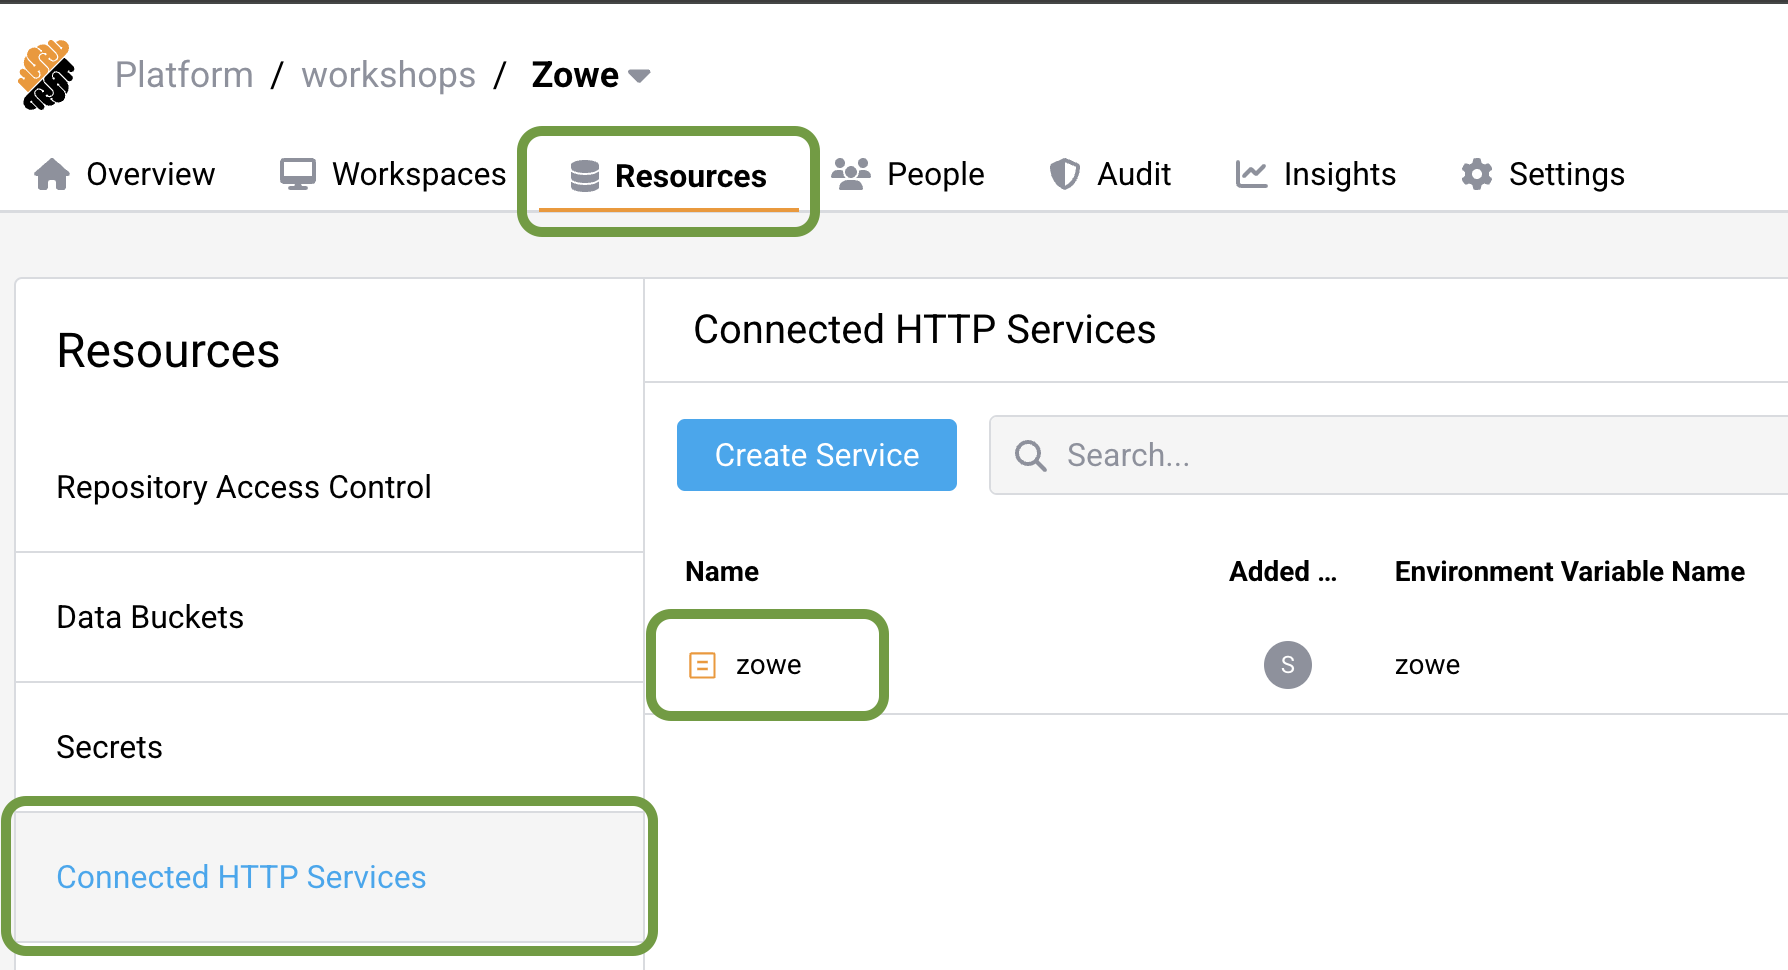
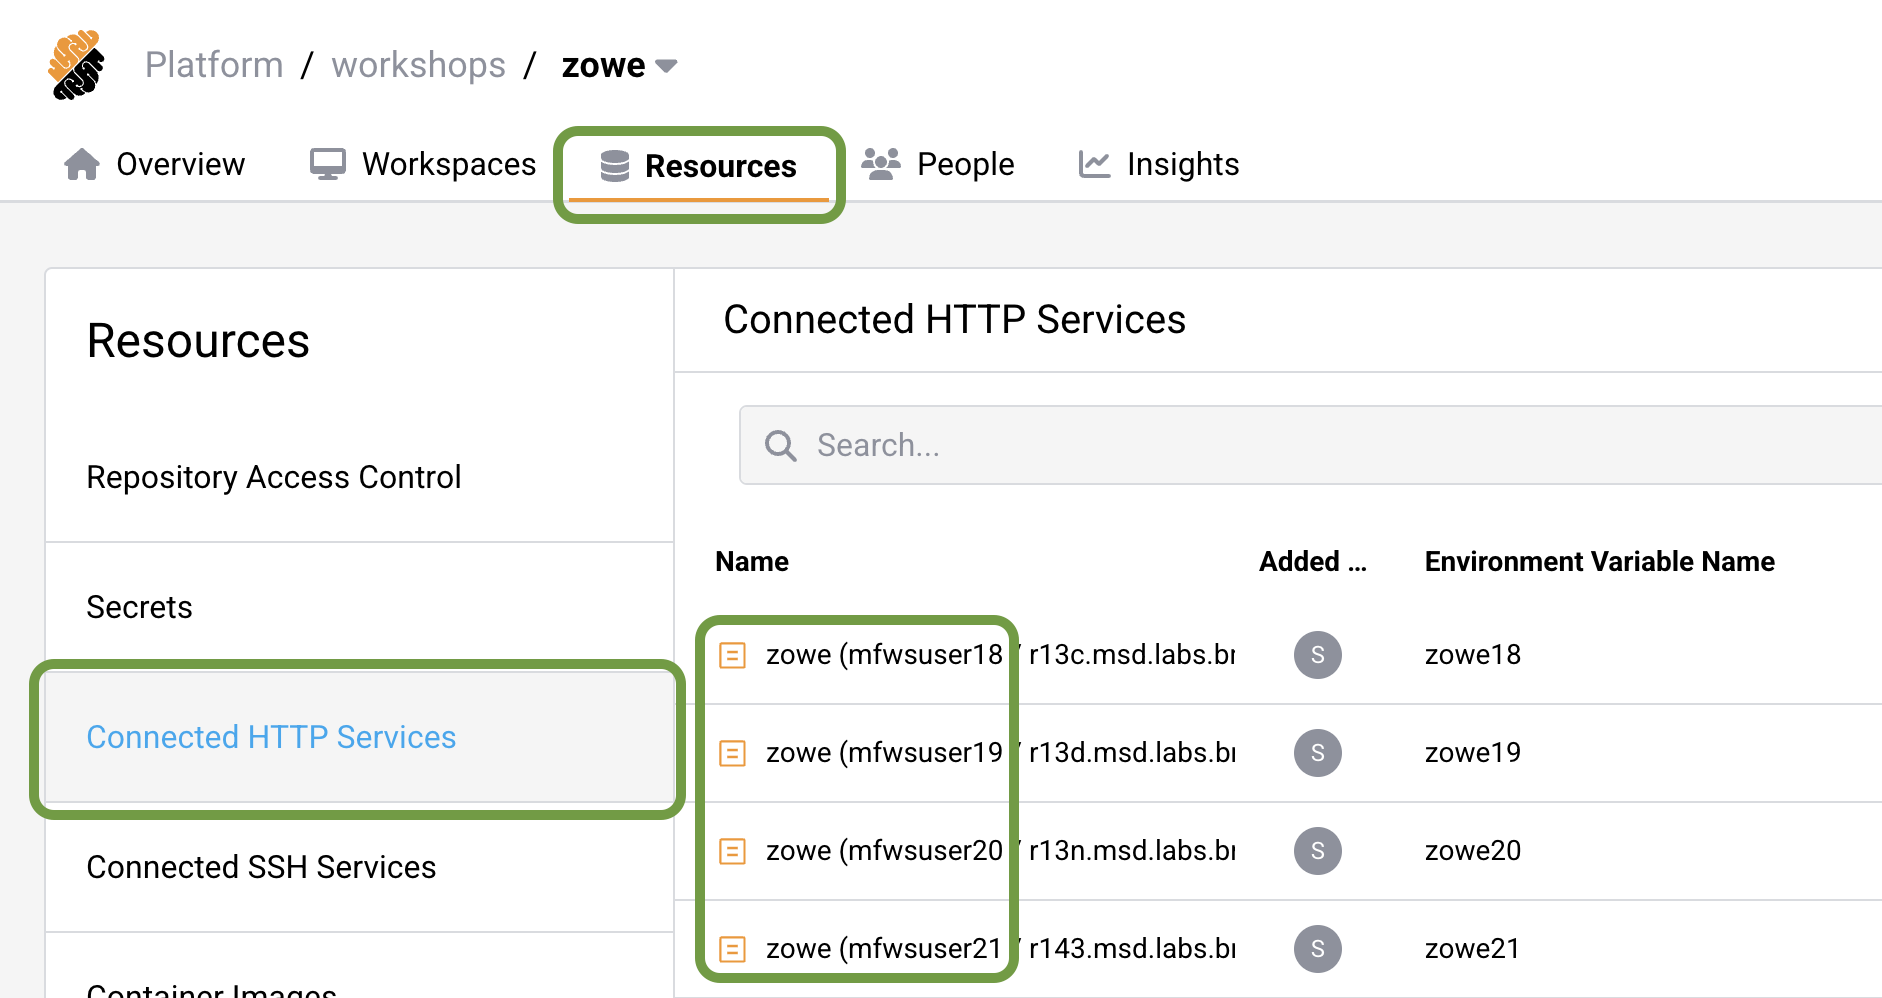
Scenarios feedback adjustments

diff --git a/Transformation.md b/Transformation.md
@@ -2,13 +2,15 @@
 
 ## Getting Started
 
-This session is intended to describe the process of creating an application that utilizes capabilities of different services onboarded to the Zowe API Mediation Layer.</br> 
-Let's start with reviewing what services are onboarded to the Zowe APIML.
+*Now that you have multiple products onboarded to Zowe’s API Mediation Layer, we are ready to build an application that utilizes them in combination. The goal is to create an app that demonstrates the power of different products like SYSVIEW and z/OSMF APIs integrated in one solution that can help you to simplify mainframe management.*
 
 ## Browse the Zowe API Catalog UI
 
-Navigate to the Strong Network platform main page and then go to the **Resourses** -> **Connected HTTP Services** </br>
-Click on **zowe** service to open the Zowe API Catalog UI
+*Let's start with reviewing the Zowe API Catalog to review what services are onboarded to the Zowe APIML.*
+
+1. Navigate to the Strong Network platform main page 
+2. Go to the **Resourses** -> **Connected HTTP Services** 
+3. Click on the service corresponding to your user ID **zowe** **(<user>...** to open the Zowe API Catalog UI
 
 <img style="height: 400px" src="./assets/zowe-ui-access.png">
 </br></br>
@@ -17,29 +19,44 @@ You can browse the list of currently onboarded services
 
 <img style="height: 400px" src="./assets/api-catalog-onboarded.png">
 </br></br>
+</br>
 
-Click on the **SYSVIEW Performance Management** tile to drilldown to the API documentation and browse available endpoints</br>
-Take a closer look on the **/SYSVIEW/Command** which allows us to execute a SYSVIEW function command. 
+*The first step is to be able to execute a SYSVIEW command from within our application. To do this, we’ll use the SYSVIEW Performance Management API, specifically the /SYSVIEW/Command endpoint, which allows us to execute SYSVIEW function commands like starting a job or querying job status.*
+
+1. Click on the **SYSVIEW Performance Management** tile to drilldown to the API documentation and browse available endpoints</br>
+2. Browse the available endpoints, and select **/SYSVIEW/Command** 
 
 <img style="height: 150px" src='./assets/sysview-command.png'>
 </br></br>
 
-Select the endpoint, click **Try it out**, enter **/S ZWEDUMMY** value to the *command* field and click **Execute** button below.</br>
-You should see the Server response code **200** and response content.</br></br> 
-Click on NodeJS tab on snippets panel and copy code content. Now we can use this code in our application.
+3. Click **Try it out**.
+4. Enter **/S ZWEDUMMY** value to the *command* field.
+5. Click on **Execute** button below.</br>
+
+You should see the Server response code **200** and some content.</br></br> 
+
+*Once the endpoint is executed successfully, you’ll see a set of reusable code snippets in different languages. For our demo, we’ll use NodeJS. These snippets will allow us to integrate the SYSVIEW API functionality into our application.*
+
+1. Click on the NodeJS tab on snippets panel 
+2. Copy the code content.
 
 <img style="height: 250px" src='./assets/sysview-command-snippet.png'>
 </br></br>
 
 ## Develop the application
+
+*Now, it’s time to develop the application itself. We’ll use the cloud IDE to write the code that connects to both SYSVIEW and z/OSMF. IDE is connected directly to the mainframe. It has Zowe CLI, Zowe Explorer and TN3270 terminal emulator installed and configured.* 
+
 ### Open cloud IDE
 
-Return back to the the Strong Network platform main page, switch to the **Overview** tab and click on *Running* / *Paused* button to open your cloud IDE
+1. Return back to the the Strong Network platform main page
+2. Switch to the **Overview** tab 
+3. Click on *Running* / *Paused* button to open your cloud IDE
 
 <img style="height: 400px" src="./assets/sn-workspace.png">
 </br></br>
 
-You are in the secure cloud environment which runs VS Code and is connected to the Mainframe
+The new window should pop-up, loading you into the secure cloud IDE. 
 
 ### Get familiar with the VSCode Activity Bar
 <img style="height: 400px" src='./assets/side-menu.png'>
@@ -47,16 +64,20 @@ You are in the secure cloud environment which runs VS Code and is connected to t
 
 ### Update SYSVIEW service
 
-Using File Explorer navigate to the **application** -> **services** folder and open **sysview.js**</br>
-Paste the snippet code below the green comment line. It should look similar to this:
+Our app is located in the **application** folder, and REST API services are stored in **services** folder.  
+
+1. Using File Explorer navigate to the **application** -> **services** folder 
+2. Open **sysview.js**
+3. Paste the snippet code below the green commented out line. It should look similar to this:
 
 <img style="height: 300px" src='./assets/sysview-service.png'>
 </br></br>
 
-Let's make few changes to prepare it to work with our application
+Although some code snippets are ready to use, this one requires some adjustments for our demo environment.</br> Let's make a few changes to make it work with our application.
+
 1. Update URL so it is not using hardcoded connection details and command value:
 ```javascript
-    let url = `${connection.scheme}://${hostname}:${connection.zowePort}/casysview/api/v1/SYSVIEW/Command?command=${command}/`;
+    let url = `${connection.scheme}://${hostname}:${connection.zowePort}/casysview/api/v1/SYSVIEW/Command?command=${command}`;
 ```
 
 2. Authorization token for our application is stored in **token** variable and should be passed as 'Cookie' with the request. Update headers to include 'Cookie' with token:
@@ -64,7 +85,7 @@ Let's make few changes to prepare it to work with our application
     let options = {method: 'GET', headers: {'Content-Type': 'application/json', 'Cookie': token}};
 ```
 
-3. Code snippet prints request output to the console, while we need to return it from the function, Add **return** keyword and remove the console output:
+3. Code snippet prints request output to the console, while we need to return it from the function, add **return** keyword before fetch function, and remove the last two lines:
 
 ```javascript
     return fetch(url, options)
@@ -78,32 +99,38 @@ Save the file, now it should look similar to this:
 
 ### Update z/OSMF service
 
-Navigate back to the API Catalog and switch to z/OSMF 
+To unlock the actual value of API Mediation Layer we can combine multiple different products in our application. Lets use z/OSMF rest API to get the list of jobs as an example.</br>
+
+1. Navigate back to the API Catalog and switch to the z/OSMF API's documentation.
 
 <img style="height: 300px" src='./assets/api-catalog-zosmf.png'>
 </br></br>
 
-Find **Jobs APIs** and open **/zosmf/restjobs/jobs** endpoint description</br>
-Type down a wildcard * as an owner and **ZWEDUMMY** as a prefix, scroll down and click Execute button below
+2. Find **Jobs APIs** and open **/zosmf/restjobs/jobs** endpoint description</br>
+3. Click **Try it out** 
+4. Type down a wildcard * as an owner and **ZWEDUMMY** as a prefix 
 
 <img style="height: 300px" src='./assets/zosmf-api.png'>
 </br></br>
 
-Open a NodeJS snippet and copy the code
+5. Scroll down and click **Execute** button
+6. Open a NodeJS snippet and copy the code
 
 <img style="height: 300px" src='./assets/zosmf-snippet.png'>
 </br></br>
 
-Return to the cloud IDE and in File Explorer navigate to the **application** -> **services** folder and open **zosmf.js**</br>
+Return to the cloud IDE and repeat the steps we performed for the previous service: 
 
-Paste the snippet code below the green comment line, and adjust the code similarly to the sysview service: 
+1. In the File Explorer navigate to the **application** -> **services** folder 
+2. Open our second service - **zosmf.js**</br> 
+3. Paste the snippet code below the green commented out line
 
-1. Update URL so it is not using hardcoded connection details and prefix value:
+4. Update URL so it is not using hardcoded connection details and prefix value:
 ```javascript
     let url = `${connection.scheme}://${hostname}:${connection.zowePort}/ibmzosmf/api/v1/zosmf/restjobs/jobs?owner=*&prefix=${prefix}&max-jobs=1000&exec-data=N`;
 ```
 
-2. Authorization token for our application is stored in **token** variable and should be passed as 'Cookie' with the request. Update headers to include z/OSMF specific header "X-CSRF-ZOSMF-HEADER" and 'Cookie' with token:
+5. Authorization token for our application is stored in **token** variable and should be passed as 'Cookie' with the request. Update headers to include z/OSMF specific header "X-CSRF-ZOSMF-HEADER" and 'Cookie' with token:
 ```javascript
     let options = {method: 'GET', headers: {
                 "X-CSRF-ZOSMF-HEADER": "",
@@ -112,26 +139,29 @@ Paste the snippet code below the green comment line, and adjust the code similar
             }};
 ```
 
-3. Code snippet prints request output to the console, while we need to return it from the function, Add **return** keyword and remove the console output:
+6. Code snippet prints request output to the console, while we need to return it from the function, add **return** keyword before **fetch** function, and remove the last two lines:
 
 ```javascript
     return fetch(url, options)
         .then(res => res.json());
 ```
+</br>
 
-Save the file and lets start our application.
+*Now that both the SYSVIEW and z/OSMF services are integrated, it’s time to run the application. This app will automate job management, checking job statuses every 10 seconds and taking action when necessary. Let’s start the application and see it in action.*
 
 ### Start the application
 
-Open an IDE terminal by using **Hamburger menu** -> **Terminal** -> **New Terminal** and run a zowe command there:
+Open an IDE terminal by using **Hamburger menu** -> **Terminal** -> **New Terminal** and run a node command there:
 
-`node application/server.js `
-</br></br>
+```
+node application/server.js 
+```
+</br>Console should reply that server is running</br>
 
 <img src='./assets/server-start.png'>
 </br></br>
 
-A popup message should appear in the bottom right corner, click on **Create App** (Or **Preview** if application already exists)
+Also, a popup message should appear in the right bottom corner, click on **Create App** (Or **Preview** if application already exists)
 
 <img src='./assets/service-create.png'>
 </br></br>
@@ -141,15 +171,29 @@ Fill in any application name, select **Public** access and click **Create**
 <img src='./assets/service-input.png'>
 </br></br>
 
-Click browse icon to open our application UI
+This will provide us access to the user interface of our application. </br>Click browse icon to open the UI.
 
 <img src='./assets/service-browse.png'>
 </br></br>
 
-You should be able to see our ZWEDUMMY Monitor application. </br>
-This application uses z/osmf jobs REST API to get the list of jobs with prefix "ZWEDUMMY" </br>
-If we click on "Watch ZWEDUMMY" button we will start checking if ZWEDUMMY is running every 10 seconds </br>
-In case there is no ACTIVE ZWEDUMMY then it will automatically start one using SYSVIEW /S ZWEDUMMY command.
+You should be able to see our ZWEDUMMY Monitor demo application.
 
 <img src='./assets/zwedummy-monitor.png'>
-</br></br>
+</br>
+
+*The application is now live. The ZWEDUMMY Monitor demo application is designed to monitor jobs and trigger SYSVIEW commands as needed. If a ZWEDUMMY job is not running, the app will automatically start it for you.*
+
+### Workflow in details:
+
+The ZWEDUMMY is a sample STC that does nothing, just sleeps for a few minutes and then stops.
+
+Our application will start with authenticating the user and obtaining a token which will be used with every REST API request to connect to any product onboarded to the APIML.
+
+Then it triggers the z/OSMF jobs REST API to get the list of jobs with prefix "ZWEDUMMY".
+
+If you were quick enough, one ZWEDUMMY STC may be still running as we have issued /S ZWEDUMMY sysview command in the API Catalog earlier.
+
+If nothing is running, no worries, click on **Watch ZWEDUMMY** button and the app will fix that.</br>
+Every 10 seconds our app will check the list of running jobs and in case there is no ACTIVE ZWEDUMMY then it will automatically start one using SYSVIEW /S ZWEDUMMY command.
+
+*Congratulations, you’ve now developed an application that combines the capabilities of SYSVIEW and z/OSMF APIs through the Zowe API Mediation Layer. The power of Zowe’s extensibility has made it possible for you to leverage REST APIs in ways that were previously unavailable on the mainframe.*

diff --git a/Integration.md b/Integration.md
@@ -2,12 +2,14 @@
 
 ## Getting Started
 
-This session is intended to describe the process of onboarding of the SYSVIEW application to the Zowe API Mediation Layer. Let's start with reviewing what services are already onboarded to the Zowe APIML.
+*Imagine you’re part of a team tasked with integrating the SYSVIEW application into Zowe’s API Mediation Layer. Your goal is to make SYSVIEW's REST APIs available to external applications through Zowe’s powerful API infrastructure.*
 
 ### Browse the Zowe API Catalog UI
 
-Navigate to the Strong Network platform main page and then go to the **Resourses** -> **Connected HTTP Services** </br>
-Click on **zowe** service to open the Zowe API Catalog UI
+*Before onboarding SYSVIEW, it's useful to review the services that are already integrated with Zowe APIML. This gives you an understanding of how existing services are listed and accessed in the API catalog.*
+1. Navigate to the Strong Network platform main page 
+2. Go to the **Resourses** -> **Connected HTTP Services**
+3. Click on the service corresponding to your user ID **zowe** **(<user>...** to open the Zowe API Catalog UI
 
 <img style="height: 400px" src="./assets/zowe-ui-access.png">
 </br></br>
@@ -17,68 +19,85 @@ You can browse the list of currently onboarded services
 <img style="height: 250px" src="./assets/api-catalog.png">
 </br></br>
 
+*Now that you’ve seen the catalog, it’s time to switch to your development environment. You’re working in a secure cloud IDE that runs VS Code, connected directly to the mainframe. This is where you'll do all your work. It has Zowe CLI, Zowe Explorer and TN3270 terminal emulator installed and configured.*
+
 ### Open cloud IDE
 
-Return back to the the Strong Network platform main page, switch to the **Overview** tab and click on *Running* / *Paused* button to open your cloud IDE
+1. Return back to the the Strong Network platform main page
+2. Wwitch to the **Overview** tab 
+3. Click on *Running* / *Paused* button
 
 <img style="height: 400px" src="./assets/sn-workspace.png">
 </br></br>
 
-You are in the secure cloud environment which runs VS Code and is connected to the Mainframe
+The new window should pop-up, loading you into the secure cloud IDE. 
 
 ### Get familiar with the VSCode Activity Bar
 <img style="height: 400px" src='./assets/side-menu.png'>
 </br></br>
 
+*With the IDE set up and ready, it’s time to onboard the SYSVIEW REST API service to Zowe APIML. You’ll use Zowe Explorer to locate configuration files and modify them to point to the correct host and IP. This will enable SYSVIEW’s API to be onboarded to teh mediation layer.*
 
 ## Onboard SYSVIEW to the APIML
 
-Now we are gong to onboard the SYSVIEW REST API service to the APIML.
+Let's locate the SYSVAPPS (SYSVIEW Application Server) run-time directory using Zowe Explorer.
 
-Let's connect to the Mainframe:</br></br>
-&nbsp;&nbsp;&nbsp;&nbsp;&nbsp;&nbsp;&nbsp;&nbsp;IP: **<zdnt-ip>**</br>
-&nbsp;&nbsp;&nbsp;&nbsp;&nbsp;&nbsp;&nbsp;&nbsp;Host: **<host>**</br>
-&nbsp;&nbsp;&nbsp;&nbsp;&nbsp;&nbsp;&nbsp;&nbsp;User ID: **<tso_user_id>**</br>
-&nbsp;&nbsp;&nbsp;&nbsp;&nbsp;&nbsp;&nbsp;&nbsp;Password: **<tso_user_password>**</br></br>
+1. Copy path to the sysview configuration to the clipboard </br>
 
-There are two ways to interact with the Mainframe from this environment: you can use Zowe Explorer or tn3270 terminal emulator. 
+``` 
+/u/users/cai/sysview/runtime/cnm4h00/runtime_apps/config
+```
 
-Locate the SYSVAPPS (SYSVIEW Application Server) run-time directory using Zowe Explorer.
-
-Go tho the Zowe Explorer extension by selecting it on the side panel, then click on the magnifying lens icon under USS section - zosmf profile.
+2. Go to the *Zowe Explorer* extension by selecting it on the side panel. 
+3. Click the magnifying lens icon under USS section - zosmf profile. </br> Please nothe that first profile verification may take up to 20 seconds.
 
 <img style="height: 130px" src='./assets/uss.png'>
 </br></br>
 
-Input field would appear in the top part of IDE after validating the profile, paste path to the SYSVAPPS configuration:
-
-`/u/users/cai/sysview/runtime/cnm4h00/runtime_apps/config`
-</br></br>
+4. Once validated, paste the copied path to the SYSVAPPS configuration in the input field that appears:
 
 <img style="height: 100px" src='./assets/path-input.png'>
 </br></br>
 
-Wait for the USS files to load and click on application.yml file in the USS section or the Zowe Explorer to open it.</br>
-Find the apiml section of configuration and update it with your mainframe host and IP details and save file.
+5. Wait for the USS files to load, then click on the **application.yml** file to open it.
+</br> Note that the first file opening may take some time.</br>
+
+6. In the **application.yml** file, find the **apiml** section and update the dummy host names and IP addresses with your mainframe host and IP:</br>
+&nbsp;&nbsp;&nbsp;&nbsp;&nbsp;&nbsp;&nbsp;&nbsp;IP: **<zdnt-ip>**</br>
+&nbsp;&nbsp;&nbsp;&nbsp;&nbsp;&nbsp;&nbsp;&nbsp;Host: **<host>**</br>
 
 <img style="height: 130px" src='./assets/application-apiml.png'>
 </br></br>
 
-Now for changes to take effect we need to start SYSVIEW Application Server.</br>
-We can use zowe cli console command for that, open an IDE terminal by using **Hamburger menu** -> **Terminal** -> **New Terminal** and run a zowe command there:
+7.	Save the file after making the necessary changes.
 
-`zowe zos-console issue command "S SYSVAPPS"`
-</br></br>
+### Start SYSVIEW Application Server
+
+*At this point, the changes to the configuration are made and SYSVIEW knows where to onboard. To see those changes take effect, you need to start the SYSVIEW Application Server.*
+
+1. Open an IDE terminal by using **Hamburger menu** -> **Terminal** -> **New Terminal** 
+2. Run the following Zowe CLI command to start the SYSVIEW Application Server:
+
+```
+zowe zos-console issue command "S SYSVAPPS"
+```
+</br>
 
 ## Verify onboarding
+
+*You’ve successfully updated the configuration and started the application server. Now, it's time to verify that SYSVIEW is properly onboarded and can be accessed via Zowe APIML.*
+
 ### Browse the Zowe API Catalog UI once again
 
-If the application was configured properly we will see the SYSVIEW tile in the API Catalog
+It may take 5 to 10 minutes for the SYSVAPPS to start and register to the Discovery Service.</br>
+If the application was configured properly we will see the SYSVIEW tile in the API Catalog. 
 
 <img style="height: 100px" src='./assets/sysview-tile.png'>
 </br></br>
 
-Click on the tile to drilldown to the API documentation. You can verify the service is confiugured properly by trying out some endpoint.</br> Select endpoint, click **Try it out**, fill in parameters if needed and click **Execute** button below
+Click on the tile to drilldown to the API documentation. You can verify the service is confiugured properly by trying out some endpoint.
+
+Select endpoint, click **Try it out**, fill in parameters if needed and click **Execute** button below
 
 <img style="height: 100px" src='./assets/sysview-endpoint.png'>
 </br></br>
@@ -87,5 +106,6 @@ Click on the tile to drilldown to the API documentation. You can verify the serv
 
 Now you can reach the same endpoint from the cloud IDE using curl command.</br> 
 Navigate to the IDE terminal window and paste following command there: </br></br>
- `curl -k -X "GET" "https://<ip>:7554/casysview/api/v1/SYSVIEW/Display?command=status" -H "accept: application/json" -u <tso_user_id>:<tso_user_password>`
+ `curl -X "GET" "https://<host>:7554/casysview/api/v1/SYSVIEW/Display?command=status" -H "accept: application/json" -u <tso_user_id>:<tso_user_password>`
 
+*You successfully onboarded SYSVIEW to the Zowe API Mediation Layer and verified it by accessing the REST API endpoint.*
